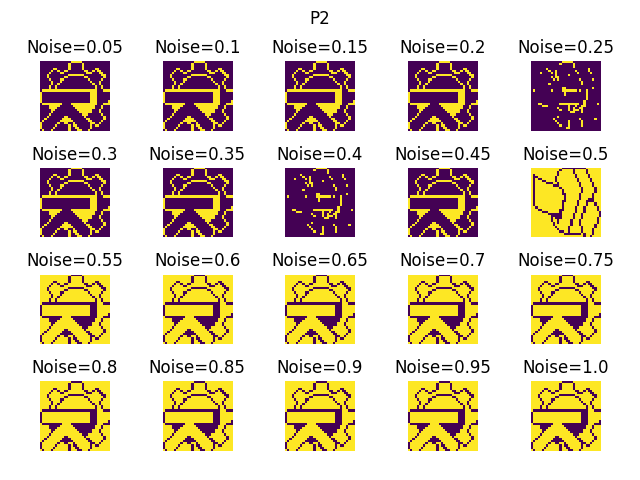
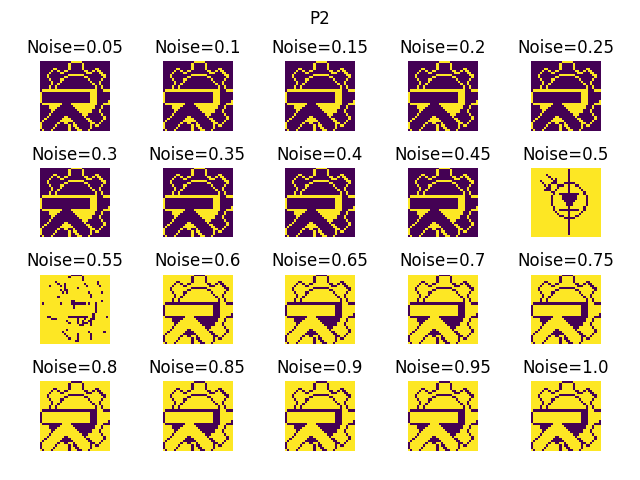
34 almost done

diff --git a/lab3/_3_4.py b/lab3/_3_4.py
@@ -13,22 +13,38 @@ if __name__ == "__main__":
     net = Hopfield()
     net.train(images)
 
-    percents = np.round(np.arange(0.05, 1.01, .05 ),2)
+    percents = np.round(np.arange(0.05, 1.01, 0.05), 2)
+
+    print("Image & Max Noise Mean & Max Noise Std")
 
     for i, image_original in enumerate(images):
-        for j, noise_percent in enumerate(percents):
-            args = np.random.choice(N, int(noise_percent * N), replace=False)
-            image_noise = np.copy(image_original)
-            image_noise[args] = image_noise[args] * -1
 
-            predict = net.predict_sync(image_noise)
-            
-            print (f"Noise: {noise_percent} Recovered:", np.all(predict==image_original))
+        max_noise = []
 
-            plt.subplot(4,5,j+1)
+        for k in range(50):
 
-            showImage(predict, title=f"Noise={noise_percent}", show_image=False)
-        
+            max_noise_recoverable = 0
+
+            for j, noise_percent in enumerate(percents):
+
+                args = np.random.choice(N, int(noise_percent * N), replace=False)
+                image_noise = np.copy(image_original)
+                image_noise[args] = image_noise[args] * -1
+
+                predict = net.predict_sync(image_noise)
+                recovered = np.all(predict == image_original)
+                max_noise_recoverable = (
+                    noise_percent if recovered else max_noise_recoverable
+                )
+
+                if k == 0:
+                    plt.subplot(4, 5, j + 1)
+                    showImage(predict, title=f"Noise={noise_percent}", show_image=False)
+
+            max_noise.append(max_noise_recoverable)
+
+        print(f"P{i+1} & {np.mean(max_noise)} & {np.std(max_noise)}")
         plt.suptitle(f"P{i+1}")
         plt.tight_layout(rect=[0, 0.03, 1, 0.95])
         plt.savefig(f"pictures/3_4_P{i+1}_noise.png")
+        plt.clf()
